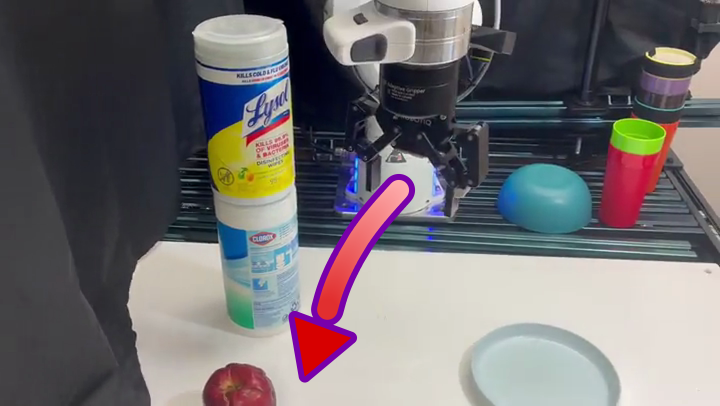
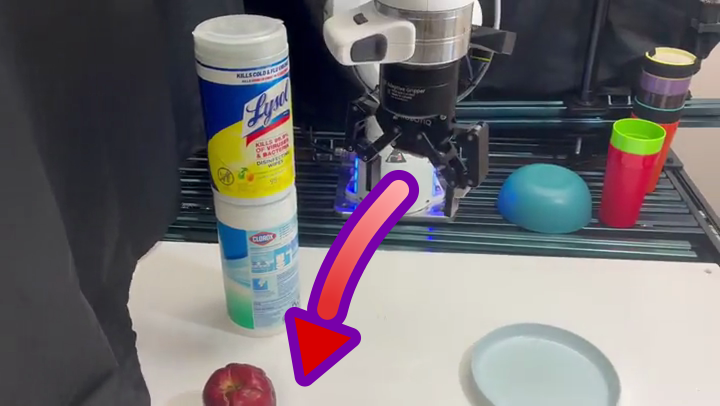
Even thicker purple borders

diff --git a/assets/hardware/frames/render_trajectories.py b/assets/hardware/frames/render_trajectories.py
@@ -101,7 +101,7 @@ def main():
         big = cv2.resize(im, None, fx=SS, fy=SS, interpolation=cv2.INTER_CUBIC)
         stops = next((v for k, v in SCHEMES.items() if name.startswith(k)), SCHEMES["2_"])
         draw_arrow(big, pts, W=20 * im.shape[1] / 720, stops=stops, border=BORDER.get(name),
-                   bw=6.0 * im.shape[1] / 720)
+                   bw=10.0 * im.shape[1] / 720)
         cv2.imwrite(os.path.join(out, name),
                     cv2.resize(big, (im.shape[1], im.shape[0]), interpolation=cv2.INTER_AREA))
         print("wrote", os.path.join(out, name))
